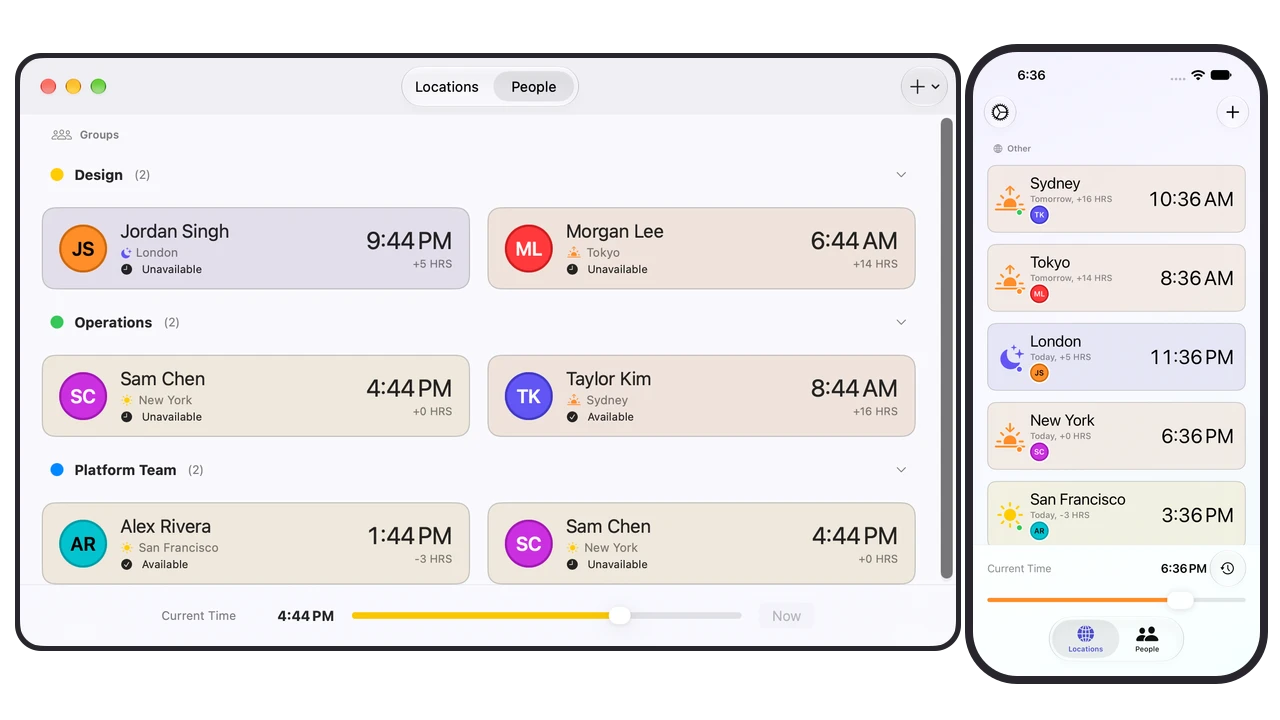
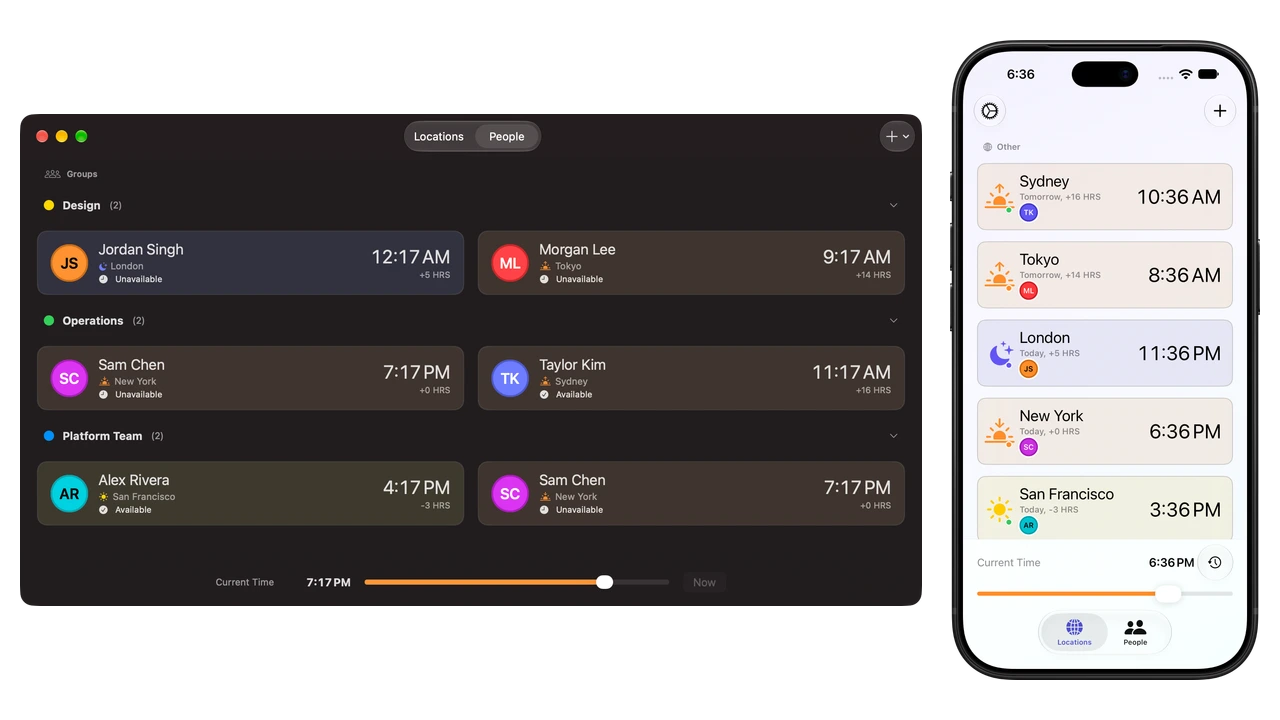
fix(zoneroo): fit artwork to the homepage shelf (#41)

diff --git a/index.md b/index.md
@@ -18,15 +18,16 @@ description: Independent Apple apps by Chris. Explore Zoneroo, Contadino, and Di
 <section class="app-shelf" aria-label="Explore my apps">
   {% for app in apps %}
   {% assign product = app.product %}
+  {% assign media = product.shelf_media | default: product %}
   <article class="app-edition theme-{{ product.theme }}" aria-labelledby="{{ product.theme }}-title">
     <div class="edition-copy">
       <h2 id="{{ product.theme }}-title"><a href="{{ app.url | relative_url }}">{{ app.title }}</a></h2>
       <p>{{ product.shelf_summary }}</p>
     </div>
-    <a class="edition-media{% if product.media_phone %} edition-media-phone{% endif %}" href="{{ app.url | relative_url }}" tabindex="-1" aria-hidden="true">
+    <a class="edition-media{% if media.media_phone %} edition-media-phone{% endif %}" href="{{ app.url | relative_url }}" tabindex="-1" aria-hidden="true">
       <picture>
-        <source srcset="{{ product.image_srcset }}" sizes="(max-width: 760px) 94vw, 33vw">
-        <img src="{{ product.image | relative_url }}" alt="" width="{{ product.image_width }}" height="{{ product.image_height }}" decoding="async" loading="{% if forloop.first %}eager{% else %}lazy{% endif %}" fetchpriority="{% if forloop.first %}high{% else %}auto{% endif %}">
+        <source srcset="{{ media.image_srcset }}" sizes="{{ media.sizes | default: '(max-width: 760px) 94vw, 33vw' }}">
+        <img src="{{ media.image | relative_url }}" alt="" width="{{ media.image_width }}" height="{{ media.image_height }}" decoding="async" loading="{% if forloop.first %}eager{% else %}lazy{% endif %}" fetchpriority="{% if forloop.first %}high{% else %}auto{% endif %}">
       </picture>
     </a>
     <div class="edition-details">

diff --git a/Zoneroo/index.md b/Zoneroo/index.md
@@ -6,6 +6,13 @@ description: See local times and working hours for friends, family, and teammate
 product:
   theme: zoneroo
   shelf_summary: Find a good time across time zones.
+  shelf_media:
+    image: /assets/images/zoneroo/shelf-800.webp
+    image_srcset: "/assets/images/zoneroo/shelf-400.webp 400w, /assets/images/zoneroo/shelf-800.webp 800w"
+    image_width: 800
+    image_height: 1649
+    sizes: 185px
+    media_phone: true
   platforms: Mac · iPhone · iPad
   availability: Beta · TestFlight
   hero_title: See the time for the people and places you care about.
